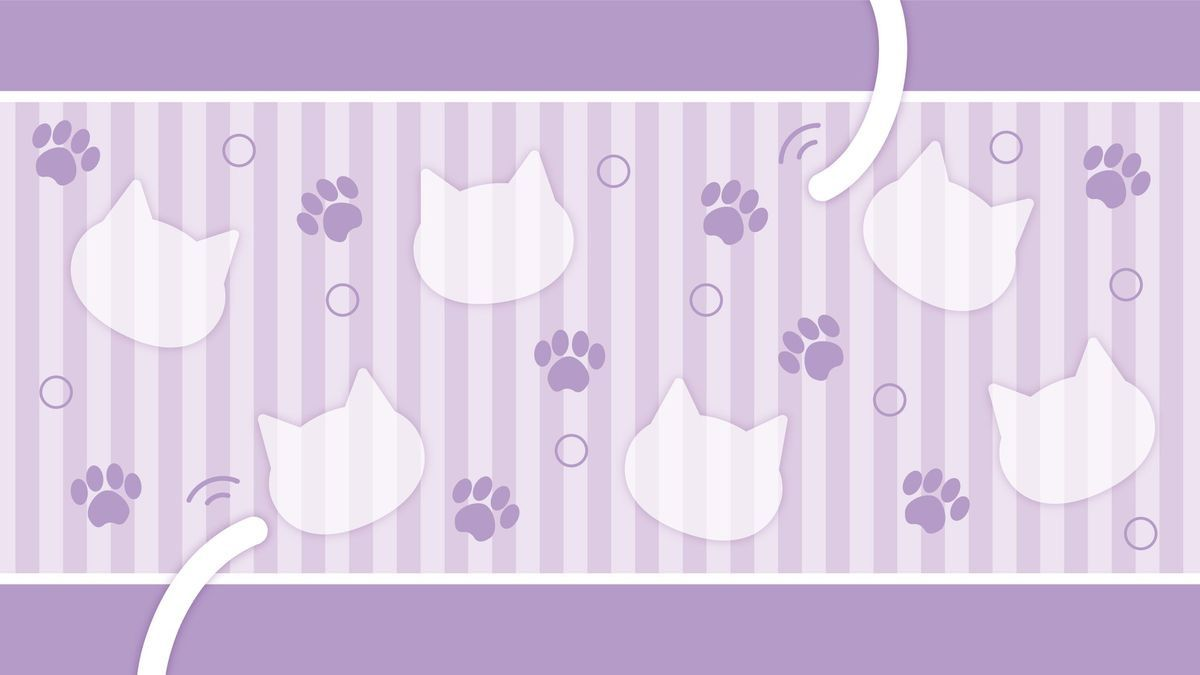
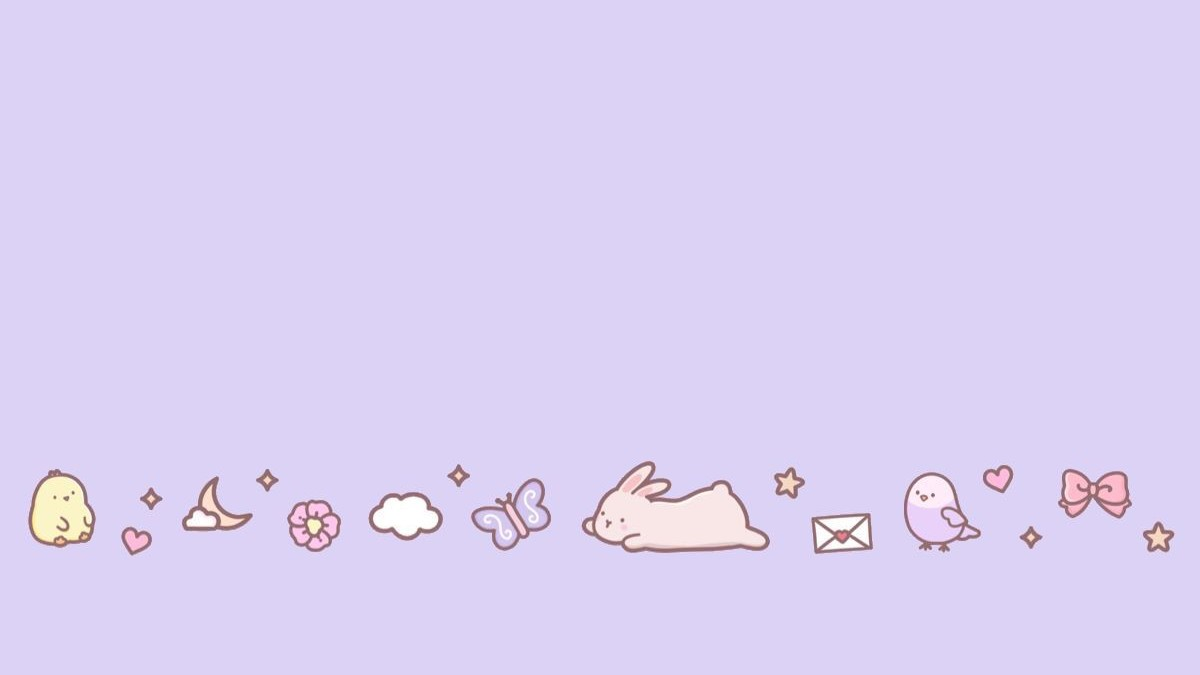
added a category click handler

diff --git a/ZooStyle/shop_app/templates/shop_app/shope_home.html b/ZooStyle/shop_app/templates/shop_app/shope_home.html
@@ -1,10 +1,6 @@
 {% extends "base.html" %}
 {% load static %}
 
-{% block extra_js %}
-<script src="{% static 'shop_app/script.js' %}"></script>
-{% endblock %}
-
 
 {% block content %}
 <div class="shop-page-layout">
@@ -14,49 +10,26 @@
         <div>
             <ul>
                 {% for category in categories %}
-                <button class="category-toggle" data-category-id="{{ category.id }}"
-                    aria-expanded="false">{{category.name}}</button>
+                <a href="javascript:void(0)" class="category-link" data-category-id="{{ category.id }}">
+                    {{ category.name }}
+                </a>
                 {% endfor %}
+                <a href="javascript:void(0)" class="category-link" data-category-id="">
+                    Все продукты
+                </a>
             </ul>
         </div>
     </section>
 
     <section id="products-section">
-        <h3>Продукты</h3>
-        <div class="products-grid">
-            {% for product in products %}
-            <div class="product-card">
-                <div class="product-image-container">
-                    <img src="{{ product.image.url }}" alt="{{ product.name }}" class="product-image">
-                    {% if product.discount_price and product.discount_price < product.price %}
-                    <span class="discount-badge">Скидка</span>
-                    {% endif %}
-                </div>
-
-                <div class="product-info">
-                    <h3 class="product-name">{{ product.name }}</h3>
-
-                    <div class="product-meta">
-                        {% if product.category %}
-                        <span class="product-category">{{ product.category.name }}</span>
-                        {% endif %}
-                    </div>
-
-                    <div class="product-pricing">
-                        {% if product.discount_price and product.discount_price < product.price %}
-                        <span class="original-price">{{ product.price }} ₽</span>
-                        <span class="discounted-price">{{ product.discount_price }} ₽</span>
-                        {% else %}
-                        <span class="current-price">{{ product.price }} ₽</span>
-                        {% endif %}
-                    </div>
-                    
-                    
-                </div>
-            </div>
-            {% endfor %}
+        <div class="products-grid" id="products-container">
+            {% include 'shop_app/_product_cards.html' with products=products %}
         </div>
     </section>
 
 </div>
-{% endblock%}
+
+{# Добавляем сюда скрытый элемент, который будет содержать сгенерированный URL #}
+<span id="filter-url-span" data-url="{% url 'shop_app:filter_products' %}" style="display: none;"></span>
+
+{% endblock %}

diff --git a/ZooStyle/shop_app/static/shop_app/js/shop_app_script.js b/ZooStyle/shop_app/static/shop_app/js/shop_app_script.js
@@ -1,0 +1,66 @@
+function getCookie(name) {
+    let valueCookie = null;
+    if (document.cookie && document.cookie !== "") {
+        const cookies = document.cookie.split(';');
+        for (let i = 0; i < cookies.length; i++) {
+            const cookie = cookies[i].trim();
+            if (cookie.substring(0, name.length + 1) === (name + "=")) {
+                valueCookie = decodeURIComponent(cookie.substring(name.length + 1));
+                break;
+            }
+        }
+    }
+    return valueCookie;
+}
+
+function filterProducts(categoryId, filterUrl) { // Добавляем параметр filterUrl
+    var productsContainer = document.getElementById("products-container");
+    if (!productsContainer) {
+        console.error("Products container with id 'products-container' not found");
+        return;
+    }
+
+    var csrftoken = getCookie("csrftoken");
+    console.log("URL запроса:", filterUrl); // Теперь будет реальный URL
+
+    var params = {};
+    if (categoryId) {
+        params.category_id = categoryId;
+        console.log("Категория выбрана:", categoryId);
+    }
+
+    fetch(filterUrl + "?" + new URLSearchParams(params), { // Используем переданный URL
+        method: 'GET',
+        headers: {
+            'X-CSRFToken': csrftoken,
+            'Accept': 'application/json',
+        }
+    })
+    .then(response => {
+        if (!response.ok) {
+            throw new Error(`HTTP error! status: ${response.status}`);
+        }
+        return response.json();
+    })
+    .then(data => {
+        console.log("Данные ответа:", data);
+        productsContainer.innerHTML = data.products_html;
+    })
+    .catch(error => {
+        console.error("Error when filtering products:", error);
+    });
+}
+
+
+document.addEventListener("DOMContentLoaded", () => {
+    const categoryLinks = document.querySelectorAll('.category-link');
+    categoryLinks.forEach(link => {
+        link.addEventListener("click", function(event) {
+            event.preventDefault();
+            const categoryId = this.getAttribute('data-category-id');
+            // Получаем URL из HTML, где он был сгенерирован Django
+            const filterUrl = document.getElementById('filter-url-span').getAttribute('data-url'); 
+            filterProducts(categoryId, filterUrl); // Передаем URL в функцию
+        });
+    });
+});

diff --git a/ZooStyle/shop_app/templates/shop_app/_product_cards.html b/ZooStyle/shop_app/templates/shop_app/_product_cards.html
@@ -1,0 +1,30 @@
+{% for product in products %}
+<div class="product-card">
+    <div class="product-image-container">
+        <img src="{{ product.image.url }}" alt="{{ product.name }}" class="product-image">
+        {% if product.discount_price and product.discount_price < product.price %}
+        <span class="discount-badge">Скидка</span>
+        {% endif %}
+    </div>
+
+    <div class="product-info">
+        <div class="product-pricing">
+            {% if product.discount_price and product.discount_price < product.price %}
+            <span class="original-price">{{ product.price }} ₽</span>
+            <span class="discounted-price">{{ product.discount_price }} ₽</span>
+            {% else %}
+            <span class="current-price">{{ product.price }} ₽</span>
+            {% endif %}
+        </div>
+
+        <h3 class="product-name">{{ product.name }}</h3>
+
+        <div class="product-meta">
+            {% if product.category %}
+            <span class="product-category">{{ product.category.name }}</span>
+            {% endif %}
+        </div>
+   
+    </div>
+</div>
+{% endfor %}

diff --git a/ZooStyle/shop_app/static/shop_app/css/style_home_shop.css b/ZooStyle/shop_app/static/shop_app/css/style_home_shop.css
@@ -10,6 +10,7 @@
     #shop-sidebars {
         background-color: #f9f9f9;
         padding: 20px;
+        margin: 5px;
         border-radius: 8px;
         box-shadow: 0 2px 5px rgba(0, 0, 0, 0.05);
         width: 250px;
@@ -64,7 +65,7 @@
     #products-section h3 {
         margin-top: 0;
         color: #333;
-        font-size: 1.8em;
+        font-size: 1.2em;
         margin-bottom: 25px;
         text-align: center;
     }
@@ -72,7 +73,7 @@
     .products-grid {
         display: grid;
         grid-template-columns: repeat(auto-fill, minmax(280px, 1fr));
-        gap: 25px;
+        gap: 15px;
     }
 
     .product-card {
@@ -133,7 +134,7 @@
         margin-bottom: 10px;
         color: #333;
         display: -webkit-box;
-        -webkit-line-clamp: 2;
+        -line-clamp: 2;
         -webkit-box-orient: vertical;
         overflow: hidden;
         text-overflow: ellipsis;

diff --git a/ZooStyle/templates/base.html b/ZooStyle/templates/base.html
@@ -6,6 +6,7 @@
 <head>
     <meta charset="UTF-8">
     <meta name="viewport" content="width=device-width, initial-scale=1.0">
+    <meta name="csrf-token" content="{{ csrf_token }}">
     <title>{% block title %}Zoo Style{% endblock %}</title>
 
     <!-- Styles -->
@@ -28,6 +29,9 @@
     <div>
         {% block content %}{% endblock %}
     </div>
+
+    
+    <script src="{% static 'shop_app/js/shop_app_script.js' %}"></script>
 </body>
 
 <footer class="site-footer">

diff --git a/ZooStyle/shop_app/views.py b/ZooStyle/shop_app/views.py
@@ -1,5 +1,8 @@
 from django.shortcuts import render
-from django.views.generic import ListView
+from django.views.generic import ListView, View
+
+from django.http import JsonResponse
+from django.template.loader import render_to_string
 
 from shop_app.models import Category, Product
 
@@ -11,8 +14,26 @@ class ShopHomePage(ListView):
     
     def get_context_data(self, **kwargs):
         context = super().get_context_data(**kwargs)
-        context["products"] = Product.objects.all
+        context["products"] = Product.objects.all()
         return context
     
     
+class FilterProductsView(View):
+    def get(self, request, *args, **kwargs):
+        category_id = request.GET.get("category_id")
+        products = Product.objects.all()
+        
+        if category_id:
+            try:
+                products = products.filter(category_id=category_id)
+            except ValueError:
+                products = Product.objects.none()
+                
+        products_html = render_to_string(
+            'shop_app/_product_cards.html',
+            {"products": products},
+            request=request
+        )
+        
+        return JsonResponse({'products_html': products_html})
 

diff --git a/ZooStyle/shop_app/urls.py b/ZooStyle/shop_app/urls.py
@@ -1,8 +1,9 @@
 from django.urls import path
-from shop_app.views import ShopHomePage
+from shop_app.views import ShopHomePage, FilterProductsView
 
 app_name = 'shop_app'
 
 urlpatterns = [
-    path("home/", ShopHomePage.as_view(), name="shop_home")
+    path("home/", ShopHomePage.as_view(), name="shop_home"),
+    path('filter-products/', FilterProductsView.as_view(), name='filter_products'),
 ]
